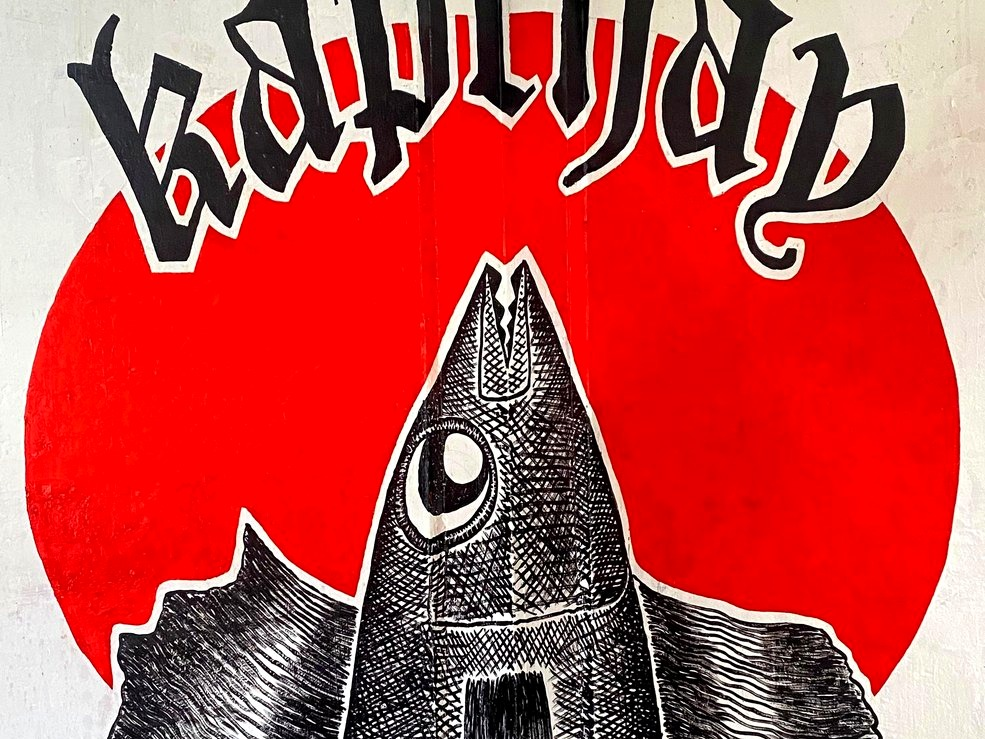
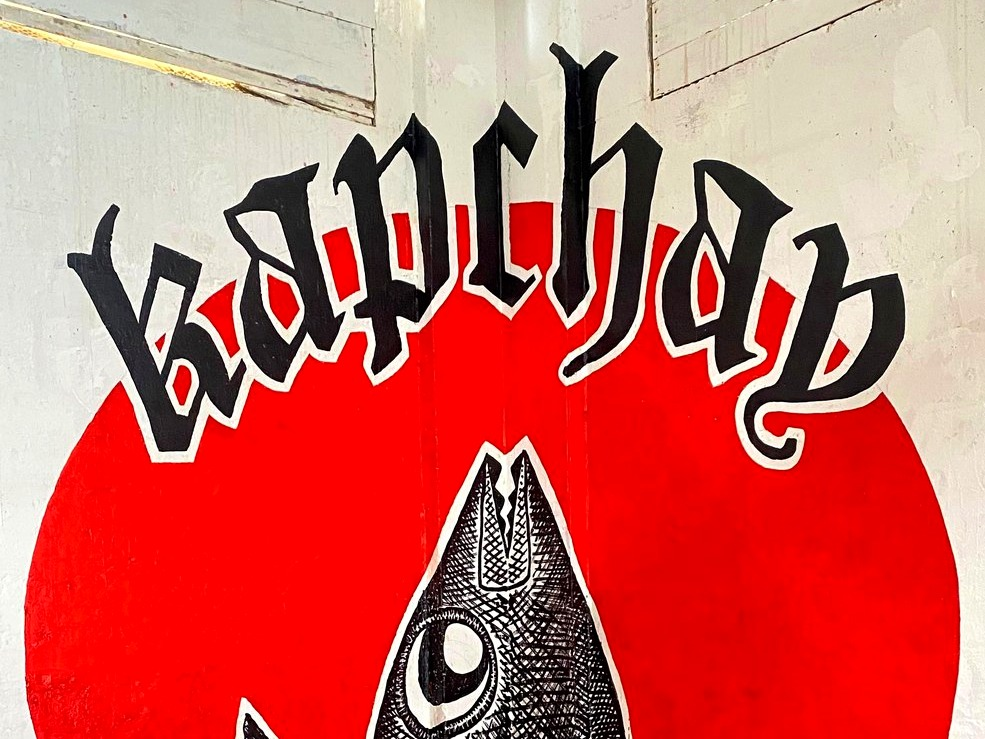
Re-crop mural photo to keep full text, remove rotated gallery photo
- Shift the mural crop up so the full "Kapchay" wordmark is visible
  with headroom, instead of clipping the tops of the letters
- Drop k07.jpg from the space gallery — it was rotated 90 degrees

diff --git a/app.js b/app.js
@@ -124,7 +124,7 @@ const WA_MESSAGES = {
 const SPACE = [
   "images/gallery/k01.jpg","images/gallery/k02.jpg","images/gallery/k03.jpg",
   "images/gallery/k04.jpg","images/gallery/k05.jpg","images/gallery/k06.jpg",
-  "images/gallery/k07.jpg","images/gallery/k08.jpg","images/gallery/k09.jpg",
+  "images/gallery/k08.jpg","images/gallery/k09.jpg",
   "images/gallery/k10.jpg","images/gallery/k11.jpg","images/gallery/k12.jpg"
 ];
 